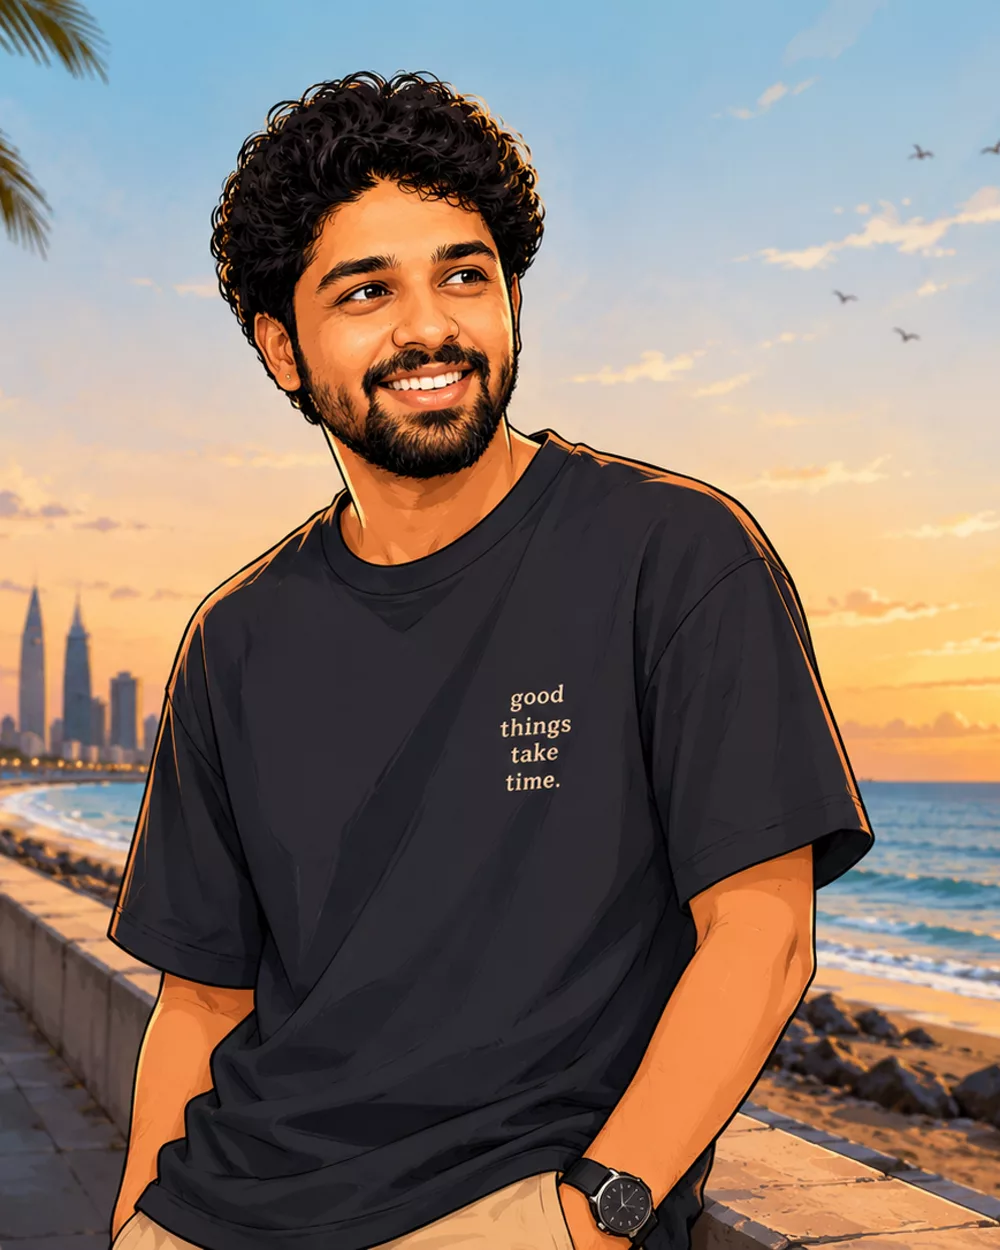
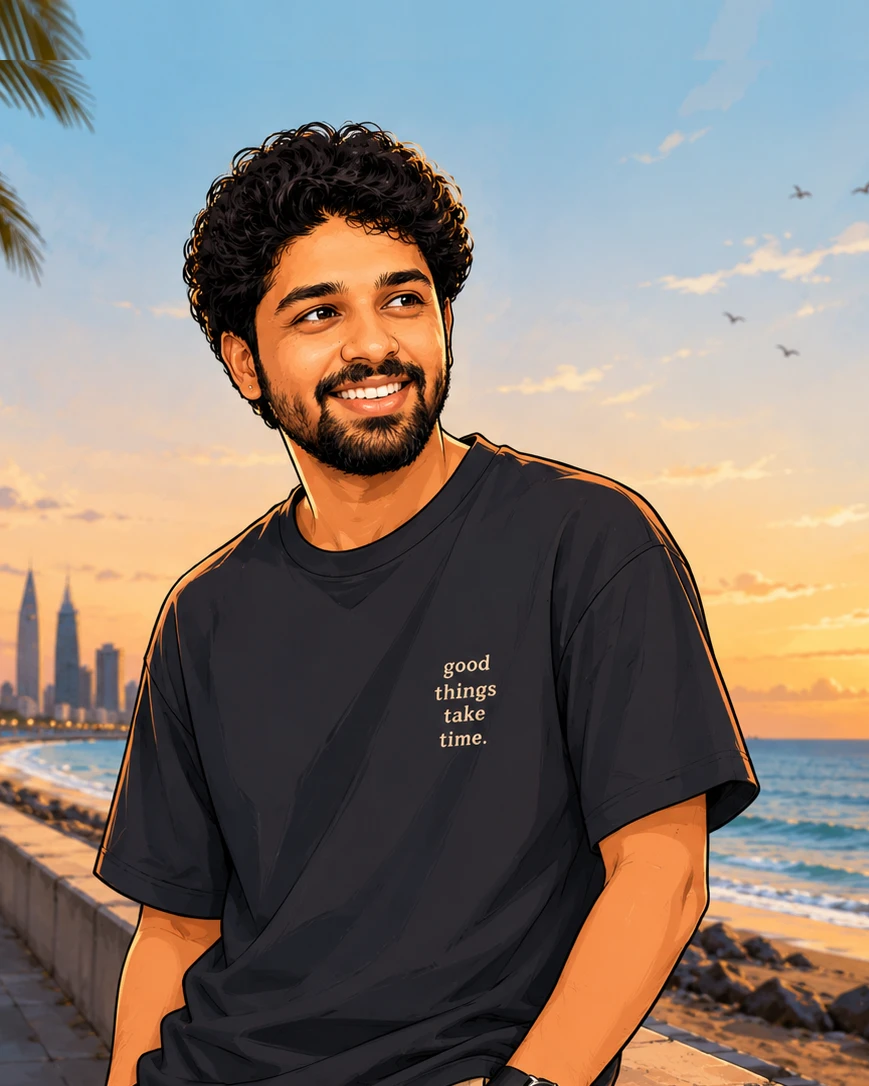
Move the wireframe into the composition and fix two cropped images
Wireframe placement

The form sat hard against the right edge, reading as decoration parked in
a corner rather than the subject of the hero. It now sits around 65%
across — right of centre, clear of the copy column, far enough from the
edge to look placed.

The change is to how the position is expressed, not just its value. It
was a fixed 1.4 world units, which does not survive a change of viewport:
the camera frustum is narrower on a laptop than on a wide monitor, so the
same constant pushes the form progressively closer to the edge as the
window narrows. It is now a fraction of the visible half-width, computed
in resize(), so the composition holds at every breakpoint. Below 900px it
still recentres, because there is no free column to sit beside.

BASE_FOV moved above resize(). resize() runs immediately on mount and now
reads it, so leaving the const beside the render loop put it in its
temporal dead zone — a crash on first paint.

The scrim's dark stops reach further right to match. Moving the form
inward puts its brightest region over the end of the headline, where the
old ramp had already fallen to 0.42. Contrast is measured rather than
eyeballed: 28 text styles, all still at WCAG AA.

Scroll choreography, pointer parallax and reduced motion are untouched.

Rapido

`object-fit: cover` trims the overflowing axis from both edges, and that
photo has its logo hard against the left, so centring sliced the first
[…]

diff --git a/src/components/HeroScene.tsx b/src/components/HeroScene.tsx
@@ -247,9 +247,24 @@ export function HeroScene({
     scene.add(group);
 
     /* --- Sizing ---------------------------------------------------------- */
-    // The copy is left-aligned, so on wide viewports the form is pushed into
-    // the right third rather than sitting behind the headline. On narrow ones
-    // it recentres, because there is no free column to move into.
+    /**
+     * Horizontal placement, as a fraction of the visible half-width rather
+     * than a fixed world offset.
+     *
+     * A fixed offset does not survive a change of viewport: the frustum is
+     * narrower on a laptop than on a wide monitor, so the same number pushes
+     * the form progressively closer to the edge as the window narrows. It had
+     * been pinned at 1.4, which put it hard against the right edge and read as
+     * decoration parked in a corner rather than the subject of the shot.
+     *
+     * 0.28 lands the centre around 65% across — right of centre, clear of the
+     * copy column's centre of gravity, and far enough from the edge that the
+     * form reads as placed rather than escaping.
+     */
+    const OFFSET_FRACTION = 0.28;
+    // Declared here rather than beside the loop: `resize()` runs immediately
+    // below and reads it, so a later `const` would be in its dead zone.
+    const BASE_FOV = 45;
     let offsetX = 0;
     // Rest positions the scroll choreography moves away from. Held separately
     // because the loop offsets the camera every frame, and resize must not
@@ -279,7 +294,6 @@ export function HeroScene({
     const resize = () => {
       const { width, height } = mount.getBoundingClientRect();
       if (!width || !height) return;
-      offsetX = width < 900 ? 0 : 1.4;
       motionScale = width < 720 ? 0.5 : width < 1000 ? 0.75 : 1;
       opacityScale = width < 900 ? 0.55 : 1;
       renderer.setPixelRatio(Math.min(window.devicePixelRatio || 1, 2));
@@ -288,6 +302,14 @@ export function HeroScene({
       // Pull the camera back on narrow viewports so the form is never cropped.
       baseCameraZ = width < 720 ? 6.2 : 4.6;
       camera.updateProjectionMatrix();
+
+      // Half the frustum width at the object's depth, which is what the
+      // placement is measured against.
+      const halfWidth =
+        baseCameraZ * Math.tan((BASE_FOV * Math.PI) / 180 / 2) * camera.aspect;
+      // Below 900px there is no free column to sit beside, so it recentres and
+      // the copy sits over it — quietened by `opacityScale` above.
+      offsetX = width < 900 ? 0 : halfWidth * OFFSET_FRACTION;
     };
     resize();
     const resizeObserver = new ResizeObserver(resize);
@@ -329,7 +351,6 @@ export function HeroScene({
     }
 
     /* --- Loop ------------------------------------------------------------ */
-    const BASE_FOV = 45;
     const clock = new THREE.Clock();
     let frame = 0;
     let visible = true;

diff --git a/src/components/About.tsx b/src/components/About.tsx
@@ -25,7 +25,14 @@ import { about, identity } from '@/content/site';
 export function About() {
   const reduced = useReducedMotion();
   const scene = useScene();
-  const portraitY = useSceneRange(scene, [0, 1], ['-6%', '6%'], '0%');
+  /* Kept small on purpose. The inner layer is oversized so the drift never
+   * exposes an edge, which means whatever the overscan and the drift add up
+   * to is permanently cropped off the top of the portrait. At 8% overscan and
+   * 6% drift that was up to 14%, and the subject's hair sits about 5% down —
+   * so the top of his head was being cut off. 4% + 3% keeps the crop under
+   * half of what it was; the portrait itself was also regenerated with extra
+   * headroom. Both were needed: either alone still clipped. */
+  const portraitY = useSceneRange(scene, [0, 1], ['-3%', '3%'], '0%');
 
   return (
     <section id="about" className="py-section-lg">
@@ -76,7 +83,7 @@ export function About() {
                   exposes an edge inside the frame. */}
               <motion.div
                 style={{ y: portraitY }}
-                className="absolute inset-x-0 -inset-y-[8%]"
+                className="absolute inset-x-0 -inset-y-[4%]"
               >
                 {about.portrait ? (
                   <Image

diff --git a/src/components/Hero.tsx b/src/components/Hero.tsx
@@ -73,12 +73,18 @@ export function Hero() {
           <>
             <HeroScene progress={scene.progress} />
             {/* Scrim: the wireframe runs bright where it crosses the headline,
-                so the text needs a floor under it to hold its contrast. */}
+                so the text needs a floor under it to hold its contrast.
+
+                The dark stops reach further right than they used to. The form
+                now sits around 65% across rather than hard against the edge,
+                which puts its brightest region over the end of the headline —
+                the old ramp had already fallen to 0.42 by there. Contrast is
+                measured, not eyeballed: see `npm run verify`. */}
             <div
               className="absolute inset-0 -z-10"
               style={{
                 background:
-                  'linear-gradient(100deg, rgba(0,0,0,0.94) 0%, rgba(0,0,0,0.86) 34%, rgba(0,0,0,0.42) 58%, rgba(0,0,0,0.30) 100%)',
+                  'linear-gradient(100deg, rgba(0,0,0,0.94) 0%, rgba(0,0,0,0.90) 42%, rgba(0,0,0,0.62) 66%, rgba(0,0,0,0.34) 100%)',
               }}
             />
           </>

diff --git a/src/components/StickyMedia.tsx b/src/components/StickyMedia.tsx
@@ -31,7 +31,16 @@ export type MediaItem = {
   title: string;
   art: ArtVariant;
   image?: string;
+  imagePosition?: 'left' | 'center' | 'right';
 };
+
+/* Tailwind scans source for whole class names, so these cannot be built by
+   interpolation — a template literal would compile to nothing. */
+const OBJECT_POSITION = {
+  left: 'object-left',
+  center: 'object-center',
+  right: 'object-right',
+} as const;
 
 export function StickyMedia({
   items,
@@ -71,7 +80,7 @@ export function StickyMedia({
             alt={`${item.title} — project visual`}
             fill
             sizes="(min-width: 1000px) 44vw, 100vw"
-            className="object-cover"
+            className={`object-cover ${OBJECT_POSITION[item.imagePosition ?? 'center']}`}
             onError={() => {
               console.warn(
                 `[work] image failed to load: ${src} — check that the file exists in public${src} and that the name matches exactly (case included). Falling back to generated artwork.`,

diff --git a/src/content/site.ts b/src/content/site.ts
@@ -189,6 +189,16 @@ export type WorkItem = {
    * the generative `Artwork` canvas renders instead, keyed to `art`.
    */
   image?: string;
+  /**
+   * Which part of the image survives the crop.
+   *
+   * The card is 16:11 and images rarely are, so `object-fit: cover` trims the
+   * overflowing axis from both edges. Centred is right most of the time, but
+   * not when the subject sits against one edge — the Rapido photo has its
+   * logo hard against the left, and centring sliced the first letter off, so
+   * it read as "apido".
+   */
+  imagePosition?: 'left' | 'center' | 'right';
   links: {
     label: string;
     href: string;
@@ -358,6 +368,7 @@ const workItems: WorkItem[] = [
     ],
     art: 'lattice',
     image: '/work/rapido-referral.webp',
+    imagePosition: 'left',
     links: [
       {
         label: 'Case study',
